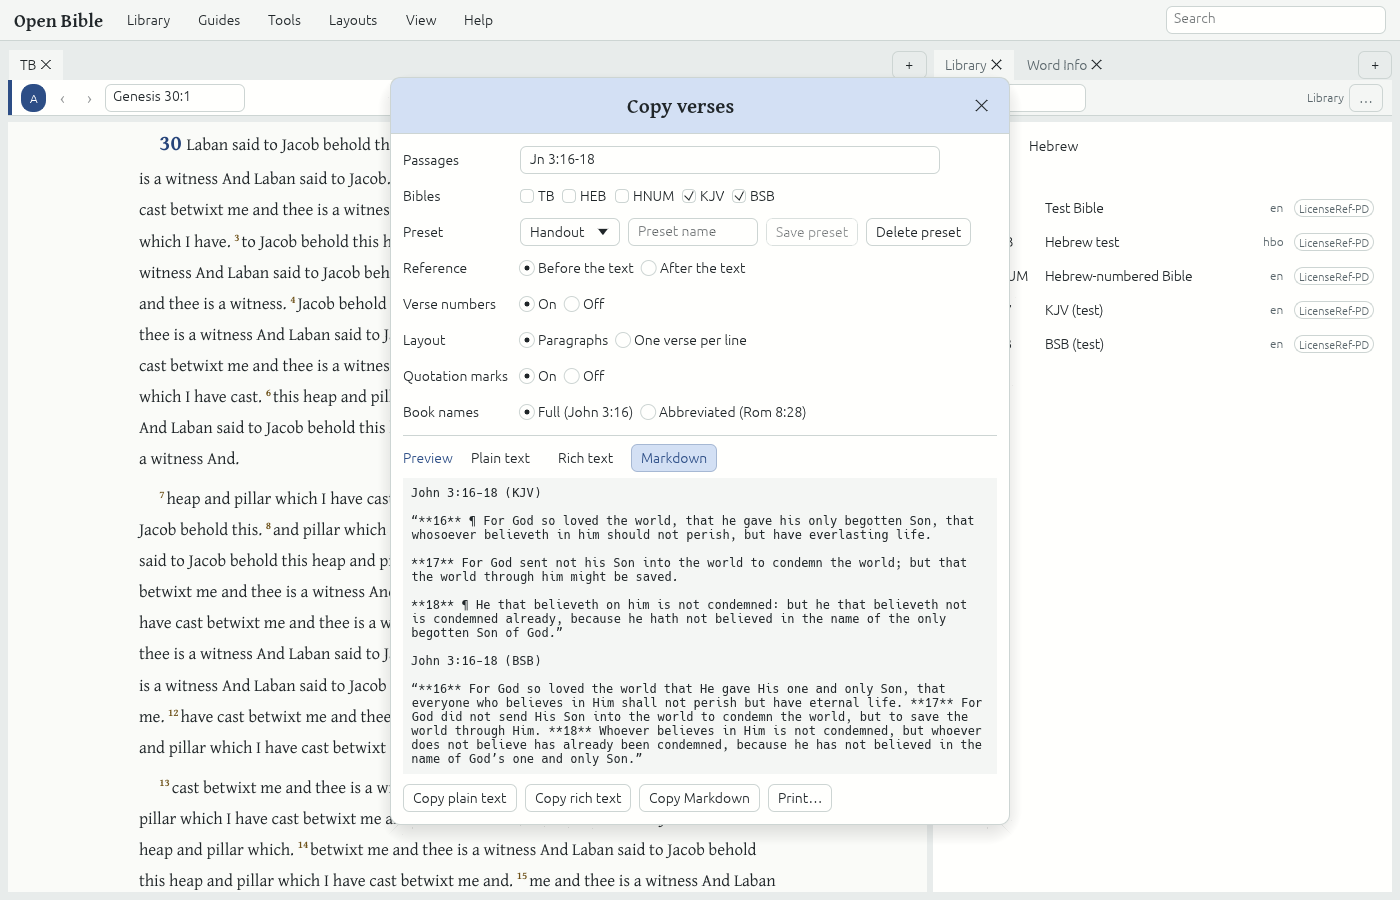
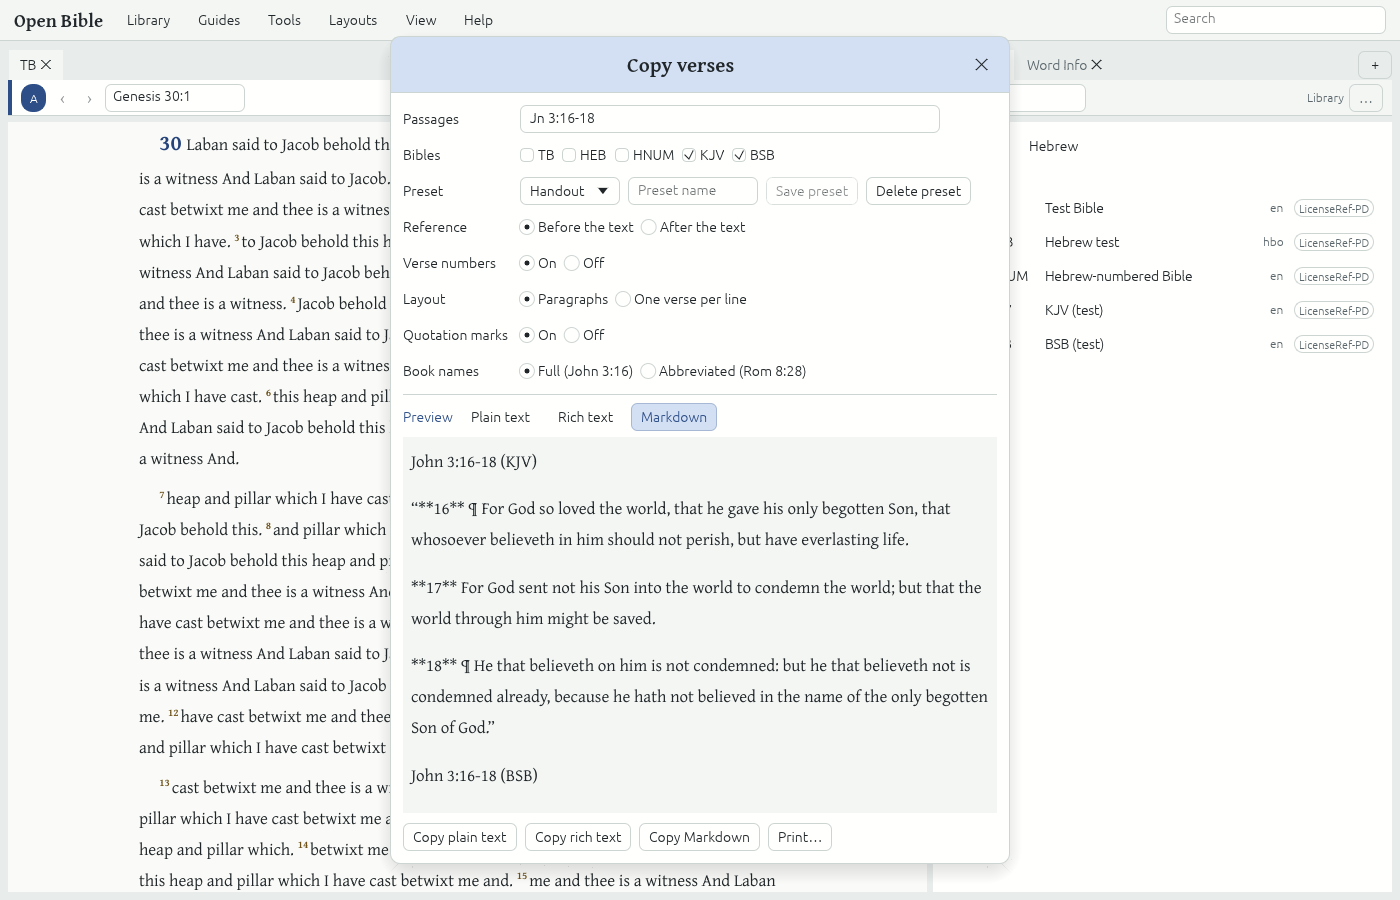
docs(previews): Copy verses previews drawn by the text pipeline, Hebrew included (#154)

Changed region(s): [[0.2764, 0.0311, 0.7371, 0.9644], [0.2764, 0.2489, 0.3379, 0.3422], [0.5529, 0.2489, 0.6757, 0.28]]

diff --git a/crates/ui-egui/src/copy_export_tests.rs b/crates/ui-egui/src/copy_export_tests.rs
@@ -450,6 +450,9 @@ fn a_hebrew_bibles_preview_reads_right_to_left_through_the_text_pipeline() {
             hebrew_lines += 1;
         }
         assert!(hebrew_lines > 0, "{label}: a Hebrew line was laid out");
+        if format == obs_engine::CopyFormat::RichText {
+            preview(&h, "copy-verses-hebrew");
+        }
     }
     drop(h);
     let _ = std::fs::remove_dir_all(&dir);
